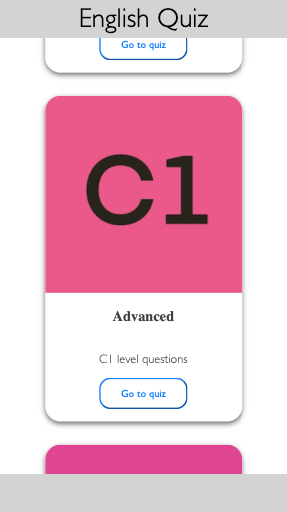
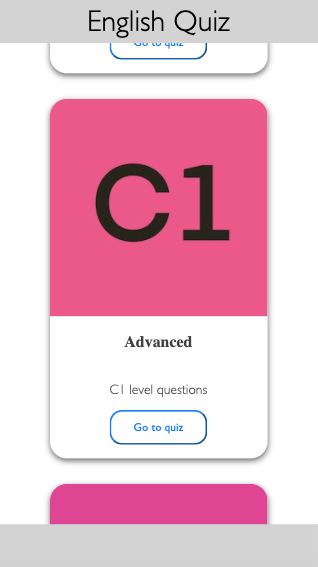
CSS styling modifications.

diff --git a/docs/quiz.html b/docs/quiz.html
@@ -128,7 +128,7 @@
                                     display: flex;
                                     flex-flow: column;
                                     align-items: center;">
-                                    <img style="width: 800px;" src="img/test5.png">
+                                    <img class="image-test5-quiz" src="img/test5.png">
                                     </div>
                                   </div>
                                 <p class="text-font">The technical requirements for creating the app:</p>
@@ -195,9 +195,9 @@
                               flex-wrap: wrap;
                               justify-content: center;
                               ">
-                              <img style="width: 300px" class="project-images" src="img/quiz_card.png">
-                              <img style="width: 300px" class="project-images" src="img/quiz_question.png">
-                              <img style="width: 300px" class="project-images" src="img/quiz_results.png">
+                              <img style="width: 300px; margin-top: 20px;" class="project-images" src="img/quiz_card.png">
+                              <img style="width: 300px; margin-top: 20px;" class="project-images" src="img/quiz_question.png">
+                              <img style="width: 300px; margin-top: 20px;" class="project-images" src="img/quiz_results.png">
                               </div>
                             </br>
                             </div>
@@ -294,7 +294,7 @@
                                               </br>
                                               <h2 style="text-align: left; font-weight: lighter; font-family: 'Courier New', Courier, monospace; font-weight: 600;">Challenges Faced</h2></br>
                                               <p class="text-font">
-                                              This was my first contact with Angular.js, and once again the learning curve was steep given that I had to come to terms with, and learn, a new framework from scratch. In spite of this the experience was very positive, and enabled me to add yet "another string to my web development bow".</p>  
+                                              This was my first contact with Angular.js, and once again the learning curve was steep given that I had to come to terms with, and learn, a new framework from scratch. In spite of this the experience was very positive, and enabled me to add yet another string to my web development bow.</p>  
                                               </br>
                                               </div>
                                               </div>

diff --git a/docs/css/style.production.css b/docs/css/style.production.css
@@ -614,6 +614,19 @@ margin-top: 30px;
 
 /*case study pages*/
 
+  .image-test5-quiz {
+    width: 800px;
+  }
+
+
+@media (max-width: 500px) {
+  .image-test5-quiz {
+    width: 400px;
+    position: relative;
+    right: 60px;
+  }
+  } 
+
 .arrow-up-btn{
   display: flex;
   line-height: 30px;
